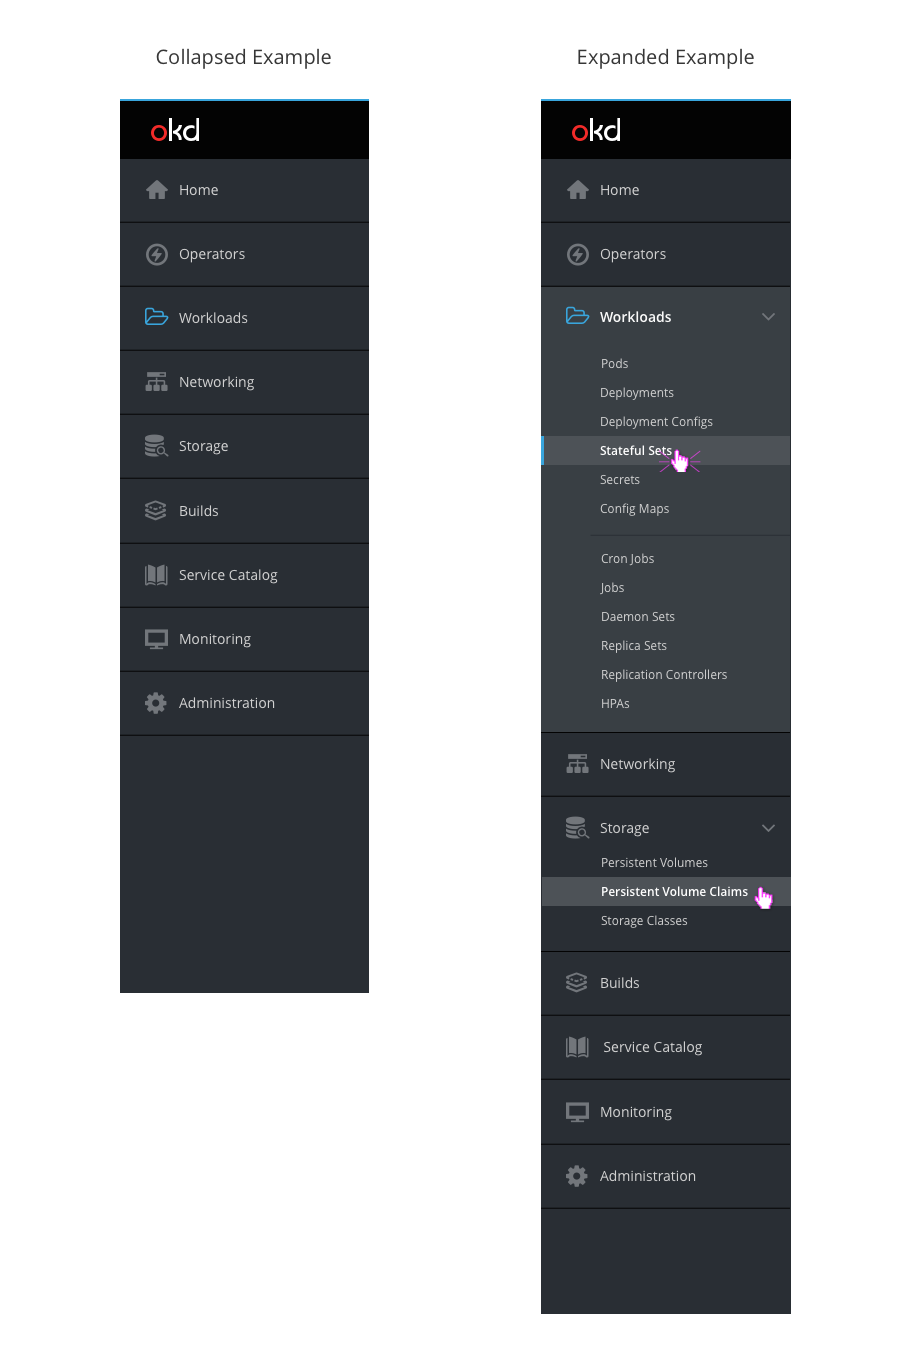
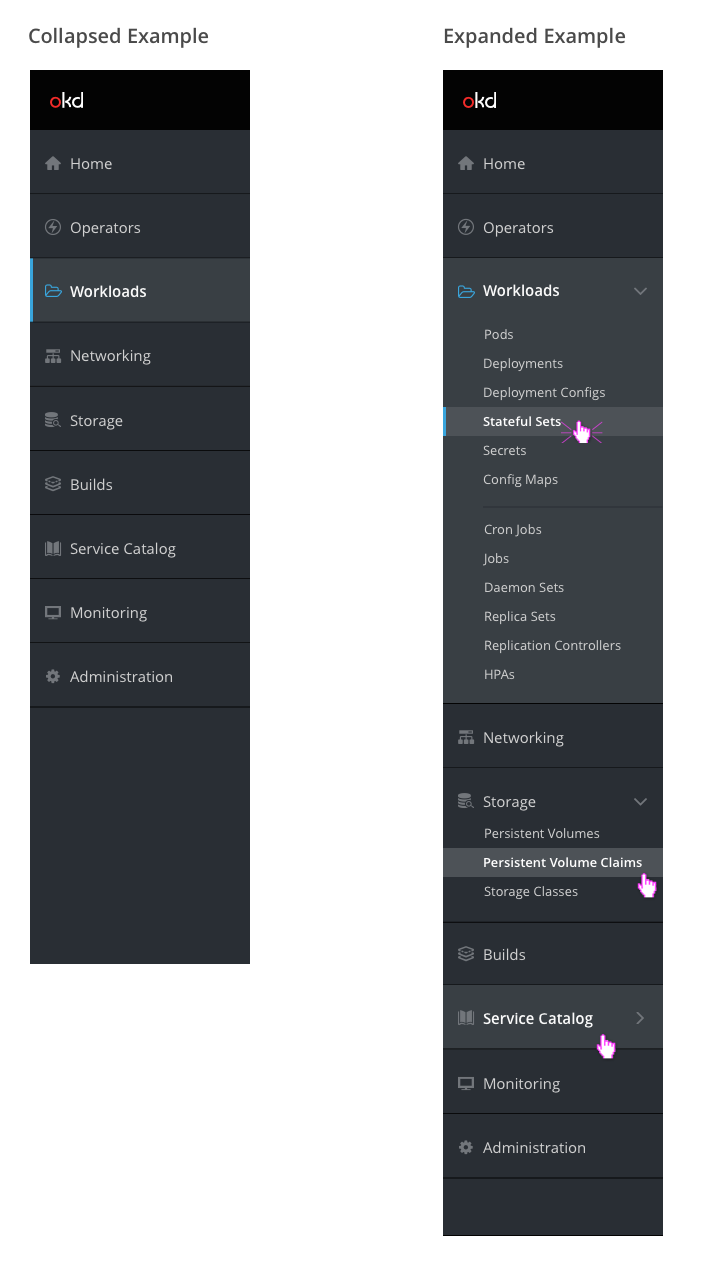
Updated image and documentation to include latest designs

Changed region(s): [[0.5676, 0.0, 0.9559, 0.9858], [0.0299, 0.0, 0.4182, 0.7701]]

diff --git a/web-console/4.0-designs/navigation/navigation.md b/web-console/4.0-designs/navigation/navigation.md
@@ -91,13 +91,17 @@
 
 ## Design
 
-* The default navigation background should be pf-black-900 (#292E34). When a primary navigation item is expanded, the section background should be pf-black-800 (#393F44).
+* The default navigation background should be pf-black-900 (#292E34). When a primary navigation item is hovered or selected, the section background should be pf-black-800 (#393F44).
 * Icons should be from the PatternFly library. See below for the complete list of icons.
-* The default icon color should be pf-black-600 (#72767B). When a primary navigation item is expanded, the associated icon should be pf-blue-300 (#39A5DC).
-* The default text color should be pf-black-300 (#D1D1D1). When a navigation item is selected, the text color should be white (#FFFFFF) and the text should be semibold.
+* The default icon color should be pf-black-600 (#72767B). When a primary navigation item is selected, the associated icon should be pf-blue-300 (#39A5DC).
+* The default text color should be pf-black-300 (#D1D1D1). When a navigation item is hovered or selected, the text color should be white (#FFFFFF) and the text should be semibold.
 * Primary navigation text should be size 14. Sub navigation text should be size 12.
-* The selected page in the navigation should have a vertical indicator on the left side in pf-blue-300 (#39A5DC).
 * Horizontal separators should be used to separate subsections within the same primary navigation section.
+* The selected page in the navigation should have a vertical indicator on the left side in pf-blue-300 (#39A5DC).
+  * When the nav item is collapsed (Ex: Workloads), the blue vertical indicator spans the entire nav item.
+  * When the primary nav item is expanded, the blue vertical indicator is shown only on the specific secondary nav item.
+* The fa-angle-down icon should be displayed for primary sections that are in the expanded state.
+* When hovering over a collapsed primary nav section, the fa-angle-right icon should be displayed to the right of the name,
 
 #### Icons
 | Navigation Item | Icon |
